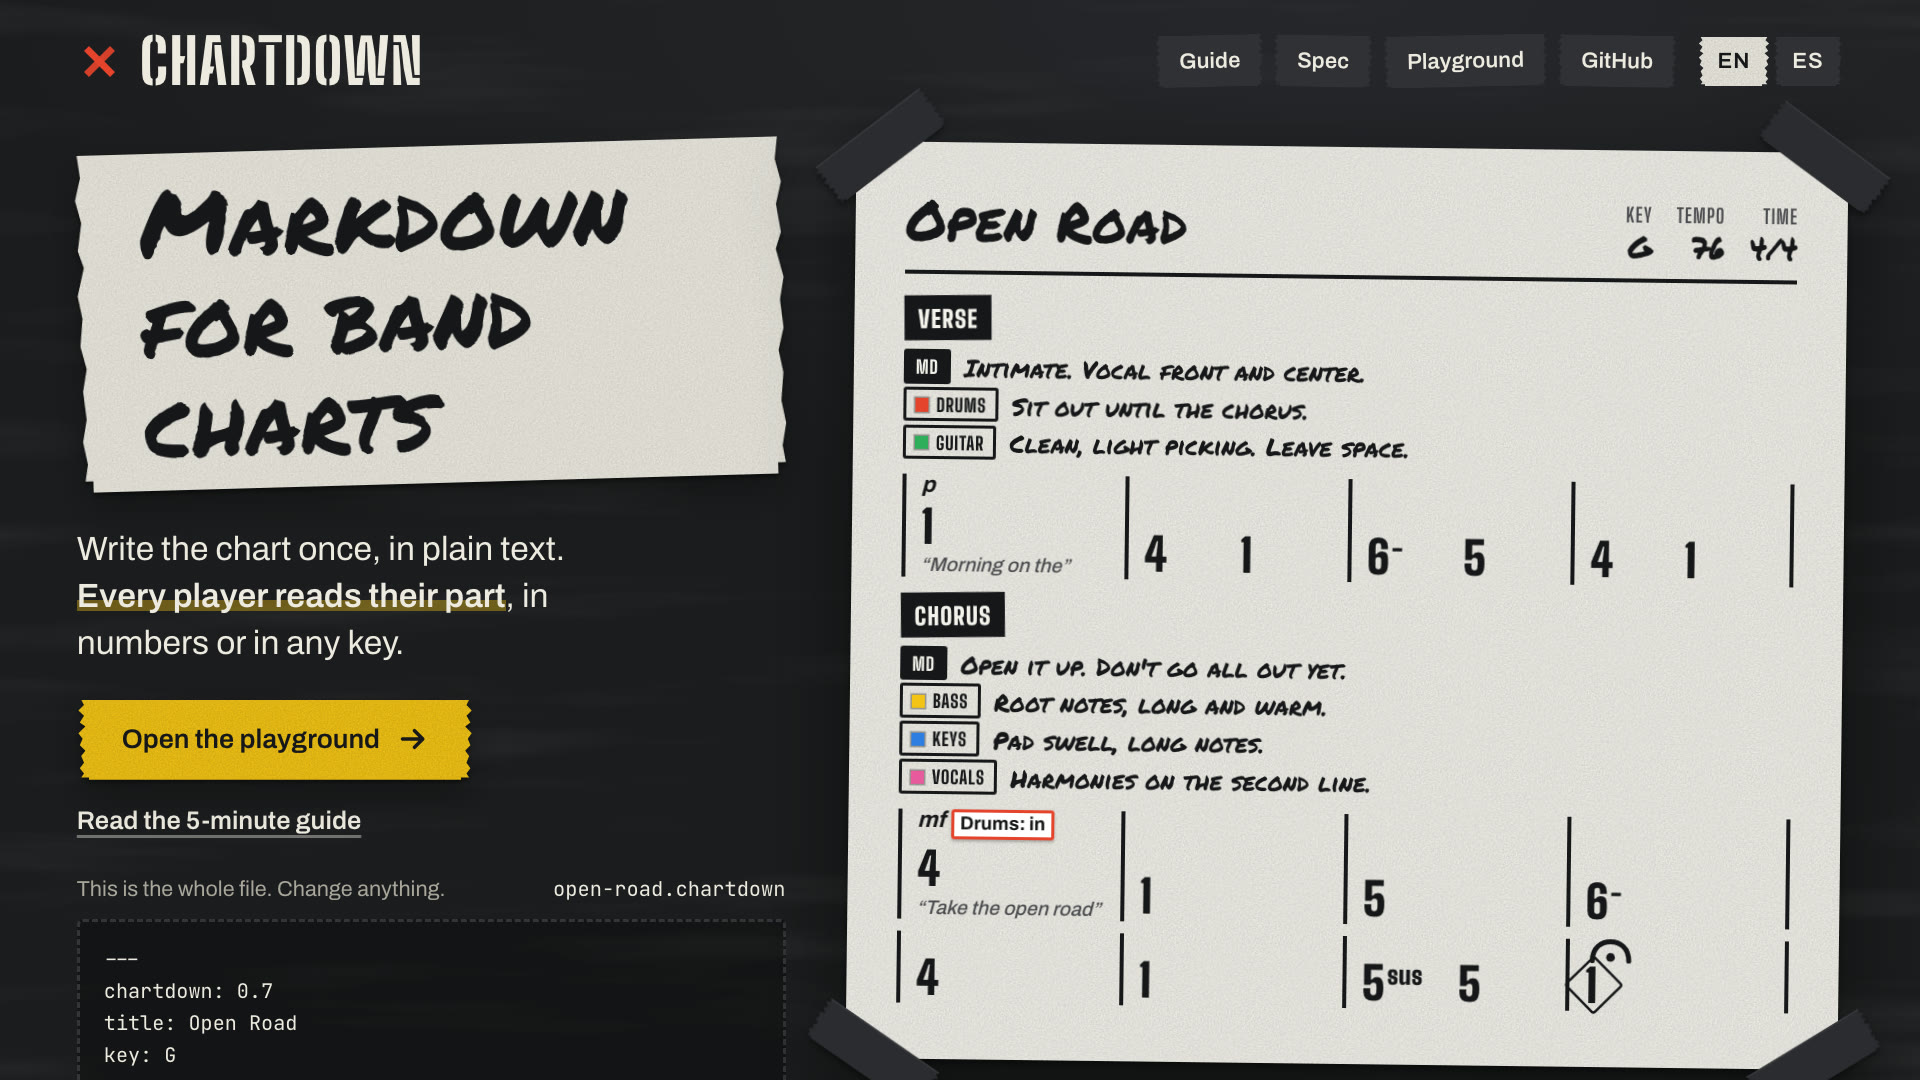
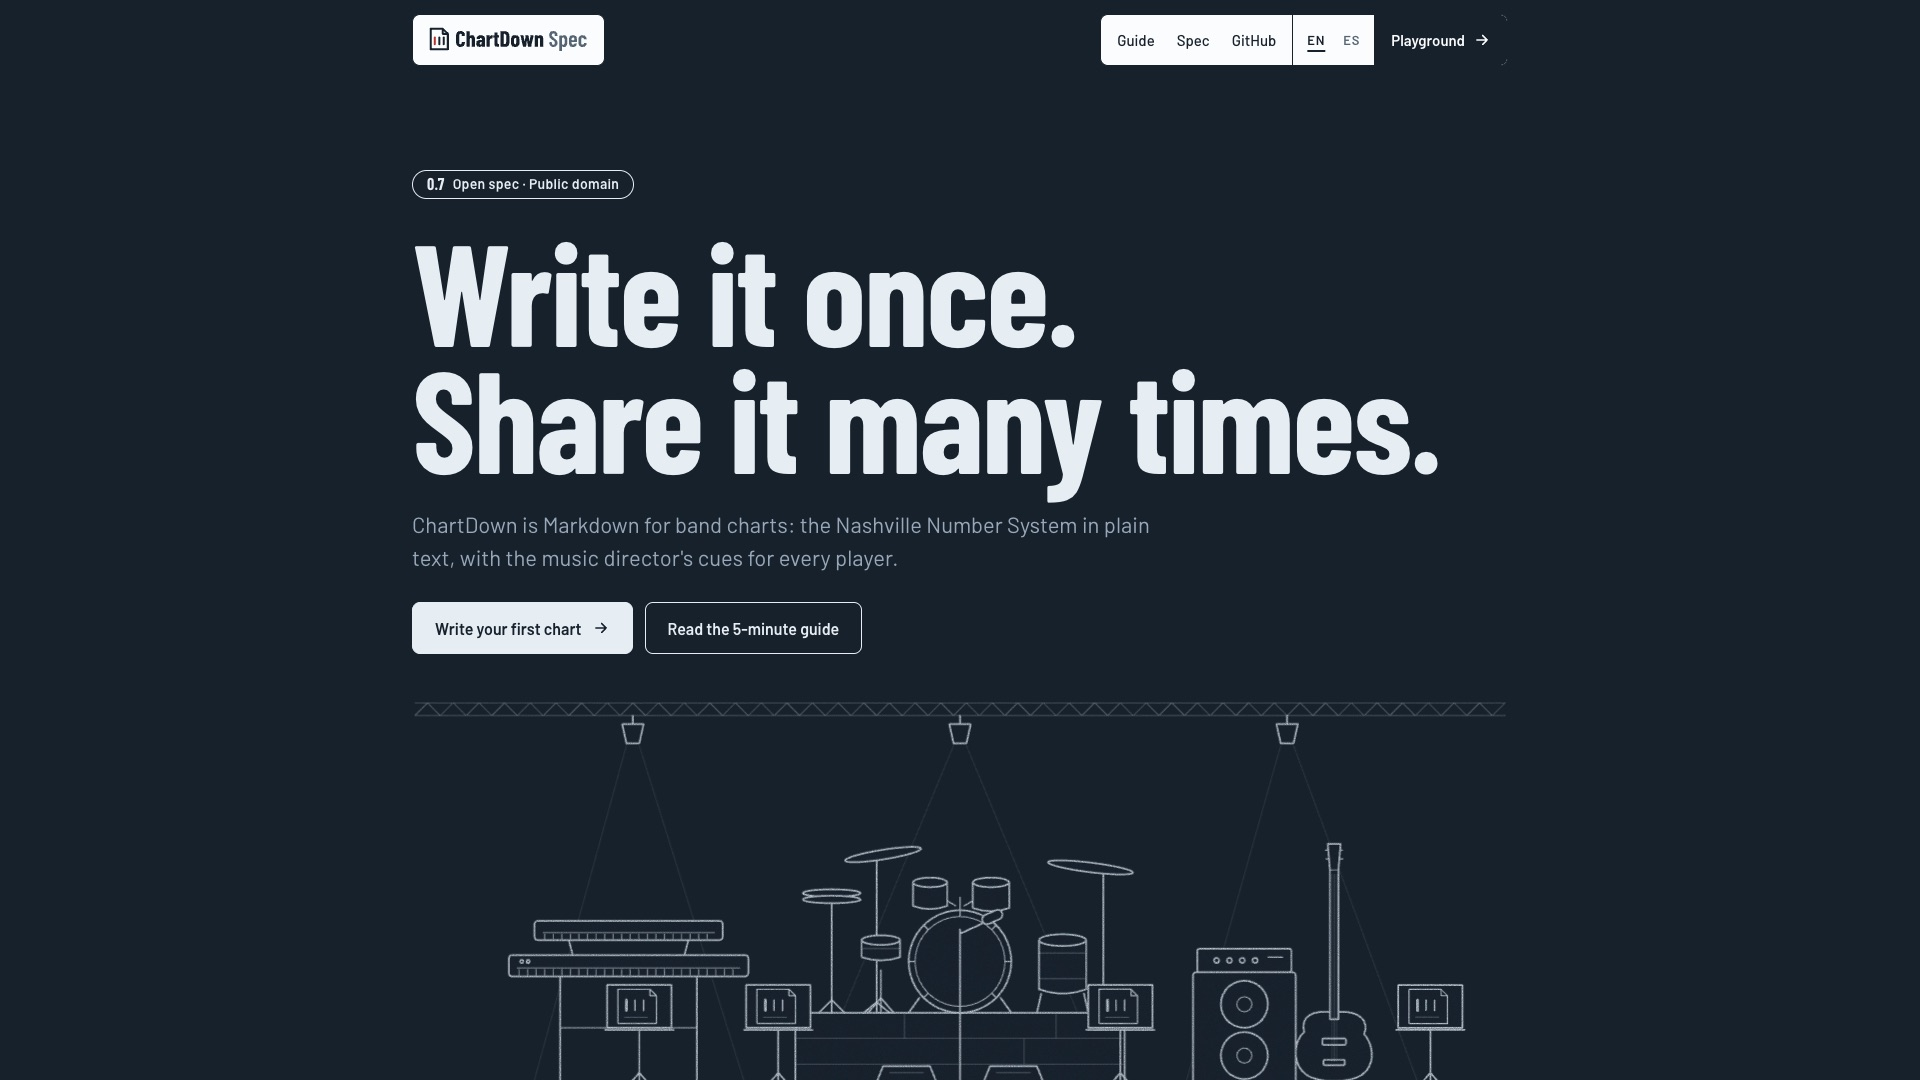
README: screenshot of the new landing; roomier hero
- docs/images/landing.jpg is now the new landing's hero (1920x1080,
  provenance in the JPEG comment), with alt text to match.
- The hero headline gets a wider measure and the stage drawing more
  room, so the lighting truss no longer touches the buttons.

diff --git a/index.html b/index.html
@@ -96,9 +96,9 @@ html.fx .pin,html.fx .hero{background:transparent}
 .btn:hover svg{transform:translateX(3px)}
 
 /* ---------- Scene 1: hero, the stage before the band arrives ---------- */
-.hero{min-height:100vh;min-height:100svh;padding-top:clamp(120px,16vh,170px);padding-bottom:calc(min(100vw, 1240px) * .4 * .84);overflow:hidden}
+.hero{min-height:100vh;min-height:100svh;padding-top:clamp(120px,16vh,170px);padding-bottom:calc(min(100vw, 1240px) * .4 * .96);overflow:hidden}
 .hero .wrap{position:relative;z-index:1;display:flex;flex-direction:column;gap:28px}
-.hero .mega{max-width:14ch}
+.hero .mega{max-width:17ch}
 .hero .mega span{display:block}
 .stage-wrap{position:absolute;left:0;right:0;bottom:0;max-width:1240px;margin:0 auto;padding-inline:var(--gut);color:#c9d3dd;pointer-events:none}
 .stage-art{display:block;width:100%;height:auto}

diff --git a/README.md b/README.md
@@ -2,7 +2,7 @@
 
 **An open, plain-text notation for Nashville Number System charts, with music director cues for every player.**
 
-[![A ChartDown chart taped to a stage floor: MD notes for the band, drums, guitar, bass, keys and vocals above the chord numbers](docs/images/landing.jpg)](https://chartdown.github.io/spec/)
+[![The ChartDown landing page: "Write it once. Share it many times." over a pencil drawing of a stage, with keys, drums, a bass amp and a music stand with a chart for every player](docs/images/landing.jpg)](https://chartdown.github.io/spec/)
 
 **[chartdown.github.io/spec](https://chartdown.github.io/spec/)** · [Playground](https://chartdown.github.io/spec/playground/) · [Guide](docs/guide.md) · [Guía en español](docs/guia.md)
 
